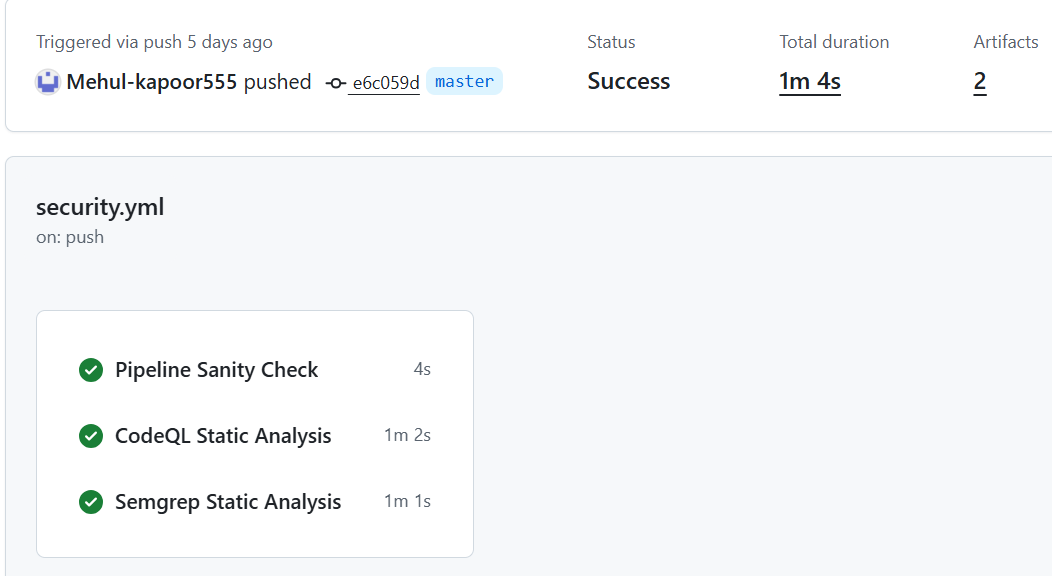
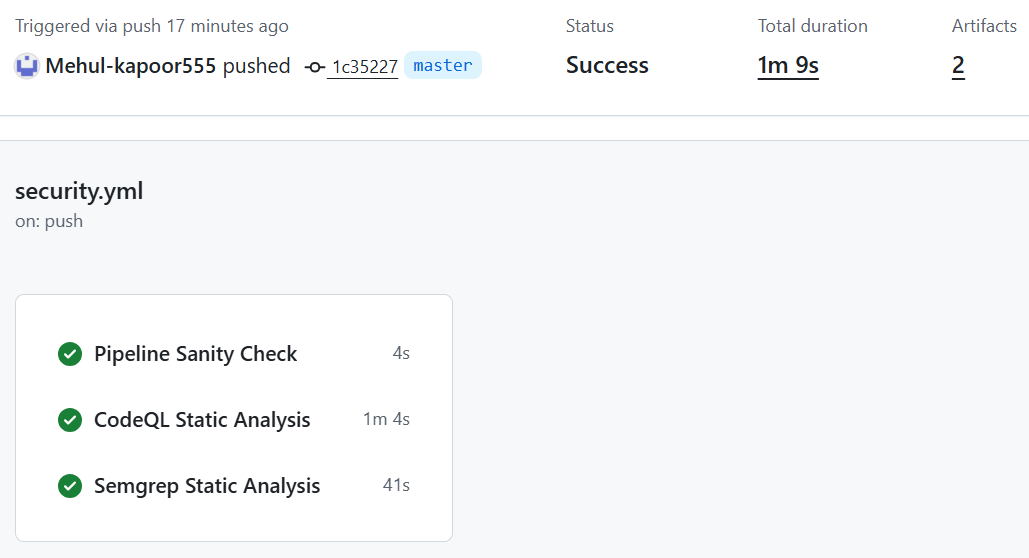
Added DevSecOps documentation and SARIF framework

diff --git a/README.md b/README.md
@@ -101,10 +101,10 @@ GitHub Actions Workflow
      ↓        ↓        ↓
  Sanity   CodeQL   Semgrep
   Check    Scan      Scan
-     ↓        ↓        ↓
-      SARIF Security Reports
+             ↓        ↓
+        SARIF Security Reports
                  ↓
-     GitHub Security Dashboard
+        GitHub Security Dashboard
 
 ```
 # Workflow Overview
@@ -361,9 +361,9 @@ The parallel execution architecture helps reduce overall workflow duration while
 
 ## Unified GitHub Security Dashboard
 
-This screenshot demonstrates the centralized GitHub Security dashboard populated through SARIF uploads generated by CodeQL and Semgrep.
+This screenshot demonstrates the centralized GitHub Security dashboard.
 
-The unified dashboard provides centralized visibility into detected vulnerabilities across the repository.
+The unified dashboard provides centralized visibility into the vulnerabilities detected by CodeQL and Semgrep across the repository.
 
 ![Unified GitHub Security Dashboard](docs/images/unified-security-dashboard.png)
 
@@ -373,7 +373,7 @@ The unified dashboard provides centralized visibility into detected vulnerabilit
 
 This example demonstrates CodeQL's semantic and dataflow based analysis capabilities.
 
-The vulnerability trace highlights how user controlled input propagates into a vulnerable SQL query without proper sanitization.
+After clicking the “Show paths” option inside GitHub Security, the vulnerability trace displays how user controlled input propagates through the application and reaches a vulnerable SQL query without proper sanitization.
 
 ![CodeQL Dataflow Analysis](docs/images/codeql-dataflow-analysis.png)
 